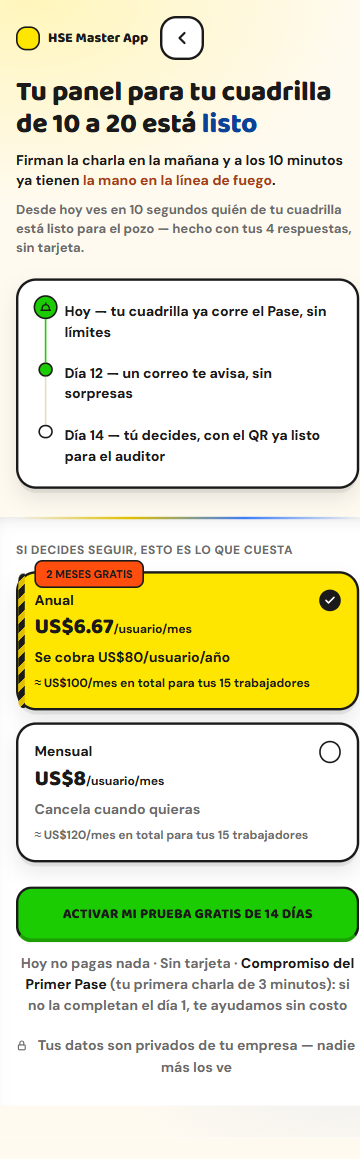
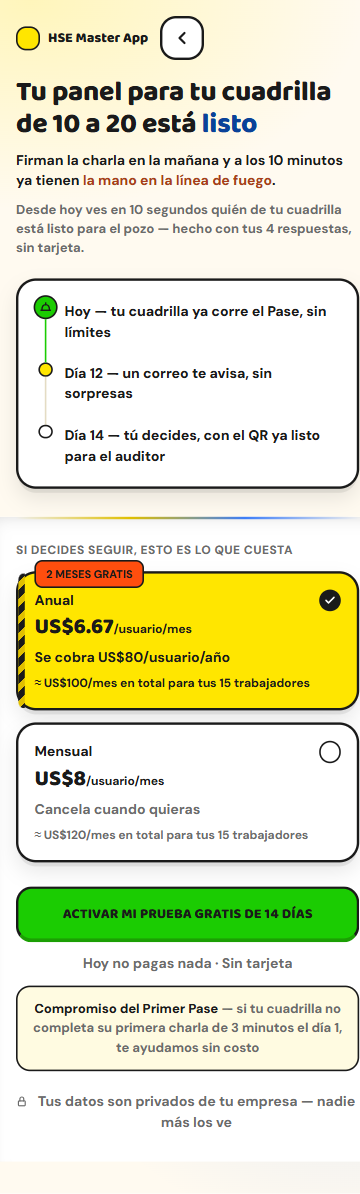
Sesion 4: corrige los defectos de la ronda 9 en onboarding y paywall
Onboarding: se zanja la oscilacion centrar/anclar de las rondas 7-9 -
todas las preguntas (pasos 1/2/4) anclan arriba por igual; el centrado
queda solo para reconocimiento y loading, que son pantallas de otro
tipo. Se agrega una bandera de transicion para que un doble-tap en un
chip no dispare 2 avances a la vez. Se completa la transicion de
"Atras" con la opacity que le faltaba. Se quita un selector CSS muerto.

Paywall: el rojo de texto de la ronda 7 pasa a ser un token declarado
(--rojo-texto) y documentado en FICHA-ARTE en vez de un hex suelto. El
script queda envuelto en try/finally para que un error en cualquier
parte no deje la pantalla en blanco. El nodo "Dia 12" gana su propio
estado amarillo, distinto del verde de "Hoy" (ya ocurrido). "Compromiso
del Primer Pase" pasa a su propia tarjeta con peso visual propio. El
check del plan elegido anima su aparicion en vez de cortar seco.

diff --git a/paywall.html b/paywall.html
@@ -19,7 +19,7 @@
     --amarillo: #ffe600; --amarillo-sombra: #e0bf00;
     --verde: #1bcc02; --verde-sombra: #1b9f03;
     --azul: #3e7ef7; --azul-sombra: #0a4299;
-    --rojo: #ff4e0e; --rojo-sombra: #c75126;
+    --rojo: #ff4e0e; --rojo-sombra: #c75126; --rojo-texto: #a83d1a;
     --neutro-track: #e4dcc4;
     --font-display: 'Baloo 2', sans-serif; --font-body: 'DM Sans', sans-serif;
   }
@@ -49,7 +49,7 @@
   .pw-headline em { font-style: normal; color: var(--azul-sombra); }
   .pw-sub { margin-top: 10px; font-size: 13px; color: var(--ink-2); font-weight: 700; }
   .pw-emocion { margin-top: 10px; font-size: 14px; font-weight: 700; color: var(--ink); line-height: 1.4; }
-  .pw-emocion b { color: #a83d1a; }
+  .pw-emocion b { color: var(--rojo-texto); }
 
   .pw-bloque { background: var(--surface); border: 3px solid var(--ink); border-radius: 20px; padding: 20px; margin-top: 20px;
                box-shadow: 0 6px 0 -2px rgb(26 26 26 / 0.08), 0 10px 20px rgb(26 26 26 / 0.1); }
@@ -62,6 +62,7 @@
   .pw-linea .nodo.casco { width: 24px; height: 24px; margin: -5px -5px 0; }
   .pw-linea .nodo.casco svg { width: 13px; height: 13px; }
   .pw-linea .nodo.outline { background: var(--surface); }
+  .pw-linea .nodo.proximo { background: var(--amarillo); }
   .pw-linea .conector { width: 2px; flex: 1; background: var(--verde); min-height: 36px; }
   .pw-linea .conector.neutro { background: var(--neutro-track); }
   .pw-linea .contenido { padding-bottom: 20px; }
@@ -101,6 +102,7 @@
                      border: 2px solid var(--ink); background: var(--surface); display: flex; align-items: center; justify-content: center; }
   .pw-plan.elegido .marca { background: var(--ink); }
   .pw-plan .marca svg { opacity: 0; }
+  .js-motion .pw-plan .marca svg { transition: opacity 150ms ease; }
   .pw-plan.elegido .marca svg { opacity: 1; }
 
   .pw-cta-wrap { margin-top: 24px; }
@@ -110,7 +112,9 @@
   .js-motion .pw-boton { transition: transform 120ms ease, border-bottom-width 120ms ease; }
   .pw-boton:active { border-bottom-width: 3px; transform: translateY(3px); }
   .pw-reversibilidad { margin-top: 10px; text-align: center; font-size: 14px; color: var(--ink-2); font-weight: 700; }
-  .pw-reversibilidad b { color: var(--ink); }
+  .pw-garantia { margin-top: 12px; padding: 12px 14px; border: 2px solid var(--ink); border-radius: 14px;
+                 background: color-mix(in oklab, var(--amarillo) 18%, var(--surface)); font-size: 13px; font-weight: 700; color: var(--ink-2); text-align: center; }
+  .pw-garantia b { color: var(--ink); }
 
   .pw-trust { margin-top: 20px; text-align: center; font-size: 14px; color: var(--ink-2); font-weight: 700;
               display: flex; align-items: flex-start; justify-content: center; gap: 6px; }
@@ -139,7 +143,7 @@
       </div>
     </div>
     <div class="pw-linea">
-      <div class="riel"><span class="nodo"></span><span class="conector neutro"></span></div>
+      <div class="riel"><span class="nodo proximo"></span><span class="conector neutro"></span></div>
       <div class="contenido">
         <p class="titulo">Día 12 — un correo te avisa, sin sorpresas</p>
       </div>
@@ -178,7 +182,8 @@
 
   <div class="pw-cta-wrap pw-reveal">
     <button type="button" class="pw-boton" id="pwActivar">Activar mi prueba gratis de 14 días</button>
-    <p class="pw-reversibilidad">Hoy no pagas nada · Sin tarjeta · <b>Compromiso del Primer Pase</b> (tu primera charla de 3 minutos): si no la completan el día 1, te ayudamos sin costo</p>
+    <p class="pw-reversibilidad">Hoy no pagas nada · Sin tarjeta</p>
+    <p class="pw-garantia"><b>Compromiso del Primer Pase</b> — si tu cuadrilla no completa su primera charla de 3 minutos el día 1, te ayudamos sin costo</p>
   </div>
 
   <p class="pw-trust pw-reveal">
@@ -189,60 +194,64 @@
 </main>
 
 <script>
-  try {
-    const onb = JSON.parse(sessionStorage.getItem('hseOnboarding') || '{}');
-    const ETIQUETAS_CUADRILLA = {
-      'Menos de 10 trabajadores': 'menos de 10 trabajadores',
-      'Entre 10 y 20 trabajadores': 'tu cuadrilla de 10 a 20',
-      'Más de 20 trabajadores': 'tu cuadrilla de más de 20'
-    };
-    document.getElementById('pwCuadrilla').textContent = ETIQUETAS_CUADRILLA[onb.cuadrilla] || 'tu cuadrilla';
-
-    const PERSONAS_ESTIMADAS = {
-      'Menos de 10 trabajadores': 8,
-      'Entre 10 y 20 trabajadores': 15,
-      'Más de 20 trabajadores': 25
-    };
-    const n = PERSONAS_ESTIMADAS[onb.cuadrilla];
-    if (n) {
-      document.getElementById('pwAnualTotal').textContent = `≈ US$${Math.round(6.67 * n)}/mes en total para tus ${n} trabajadores`;
-      document.getElementById('pwMensualTotal').textContent = `≈ US$${8 * n}/mes en total para tus ${n} trabajadores`;
-    }
-  } catch (err) {
-    document.getElementById('pwCuadrilla').textContent = 'tu cuadrilla';
-  }
-
-  const planes = Array.from(document.querySelectorAll('.pw-plan'));
-  function elegirPlan(plan, enfocar) {
-    planes.forEach((p) => { p.classList.remove('elegido'); p.setAttribute('aria-checked', 'false'); p.setAttribute('tabindex', '-1'); });
-    plan.classList.add('elegido');
-    plan.setAttribute('aria-checked', 'true');
-    plan.setAttribute('tabindex', '0');
-    if (enfocar) plan.focus();
-  }
-  planes.forEach((plan, i) => {
-    plan.addEventListener('click', () => elegirPlan(plan, false));
-    plan.addEventListener('keydown', (e) => {
-      if (e.key === 'Enter' || e.key === ' ') { e.preventDefault(); elegirPlan(plan, false); return; }
-      if (!['ArrowDown', 'ArrowRight', 'ArrowUp', 'ArrowLeft'].includes(e.key)) return;
-      e.preventDefault();
-      const siguiente = (e.key === 'ArrowDown' || e.key === 'ArrowRight') ? planes[(i + 1) % planes.length] : planes[(i - 1 + planes.length) % planes.length];
-      elegirPlan(siguiente, true);
-    });
-  });
-
-  document.getElementById('pwActivar').addEventListener('click', () => {
-    const elegido = document.querySelector('.pw-plan.elegido');
-    try { sessionStorage.setItem('hsePlanElegido', elegido ? elegido.dataset.plan : 'anual'); } catch {}
-    window.location.href = 'login.html';
-  });
-
-  const reveals = document.querySelectorAll('.pw-reveal');
   const sinMovimiento = window.matchMedia('(prefers-reduced-motion: reduce)').matches;
-  reveals.forEach((el, i) => {
-    if (sinMovimiento) { el.classList.add('in'); return; }
-    setTimeout(() => el.classList.add('in'), 80 + i * 80);
-  });
+  function revelarTodo() {
+    document.querySelectorAll('.pw-reveal').forEach((el, i) => {
+      if (sinMovimiento) { el.classList.add('in'); return; }
+      setTimeout(() => el.classList.add('in'), 80 + i * 80);
+    });
+  }
+  try {
+    try {
+      const onb = JSON.parse(sessionStorage.getItem('hseOnboarding') || '{}');
+      const ETIQUETAS_CUADRILLA = {
+        'Menos de 10 trabajadores': 'menos de 10 trabajadores',
+        'Entre 10 y 20 trabajadores': 'tu cuadrilla de 10 a 20',
+        'Más de 20 trabajadores': 'tu cuadrilla de más de 20'
+      };
+      document.getElementById('pwCuadrilla').textContent = ETIQUETAS_CUADRILLA[onb.cuadrilla] || 'tu cuadrilla';
+
+      const PERSONAS_ESTIMADAS = {
+        'Menos de 10 trabajadores': 8,
+        'Entre 10 y 20 trabajadores': 15,
+        'Más de 20 trabajadores': 25
+      };
+      const n = PERSONAS_ESTIMADAS[onb.cuadrilla];
+      if (n) {
+        document.getElementById('pwAnualTotal').textContent = `≈ US$${Math.round(6.67 * n)}/mes en total para tus ${n} trabajadores`;
+        document.getElementById('pwMensualTotal').textContent = `≈ US$${8 * n}/mes en total para tus ${n} trabajadores`;
+      }
+    } catch (err) {
+      document.getElementById('pwCuadrilla').textContent = 'tu cuadrilla';
+    }
+
+    const planes = Array.from(document.querySelectorAll('.pw-plan'));
+    function elegirPlan(plan, enfocar) {
+      planes.forEach((p) => { p.classList.remove('elegido'); p.setAttribute('aria-checked', 'false'); p.setAttribute('tabindex', '-1'); });
+      plan.classList.add('elegido');
+      plan.setAttribute('aria-checked', 'true');
+      plan.setAttribute('tabindex', '0');
+      if (enfocar) plan.focus();
+    }
+    planes.forEach((plan, i) => {
+      plan.addEventListener('click', () => elegirPlan(plan, false));
+      plan.addEventListener('keydown', (e) => {
+        if (e.key === 'Enter' || e.key === ' ') { e.preventDefault(); elegirPlan(plan, false); return; }
+        if (!['ArrowDown', 'ArrowRight', 'ArrowUp', 'ArrowLeft'].includes(e.key)) return;
+        e.preventDefault();
+        const siguiente = (e.key === 'ArrowDown' || e.key === 'ArrowRight') ? planes[(i + 1) % planes.length] : planes[(i - 1 + planes.length) % planes.length];
+        elegirPlan(siguiente, true);
+      });
+    });
+
+    document.getElementById('pwActivar').addEventListener('click', () => {
+      const elegido = document.querySelector('.pw-plan.elegido');
+      try { sessionStorage.setItem('hsePlanElegido', elegido ? elegido.dataset.plan : 'anual'); } catch {}
+      window.location.href = 'login.html';
+    });
+  } finally {
+    revelarTodo();
+  }
 </script>
 
 </body>

diff --git a/onboarding.html b/onboarding.html
@@ -57,11 +57,11 @@
     position: absolute; inset: 0; padding: 32px 16px 24px; display: flex; flex-direction: column;
     justify-content: flex-start; opacity: 0; transform: translateX(40px); pointer-events: none; visibility: hidden;
   }
-  .onb-paso[data-paso="1"], .onb-paso[data-paso="3"], .onb-paso[data-paso="5"] { justify-content: center; }
+  .onb-paso[data-paso="3"], .onb-paso[data-paso="5"] { justify-content: center; }
   .js-motion .onb-paso { transition: opacity 300ms ease, transform 300ms ease; }
   .onb-paso.activo { opacity: 1; transform: translateX(0); pointer-events: auto; visibility: visible; }
   .onb-paso.saliendo-izq { opacity: 0; transform: translateX(-24px); }
-  .onb-paso.entrando-der { transform: translateX(40px); }
+  .onb-paso.entrando-der { opacity: 0; transform: translateX(40px); }
   .onb-paso.entrando-izq { transform: translateX(-40px); }
 
   .onb-encabezado { border-radius: 20px; border: 3px solid var(--ink); padding: 20px; margin-bottom: 24px; }
@@ -334,10 +334,14 @@
     document.querySelector('.onb-header').classList.toggle('oculto', paso === 5);
   }
 
+  let transicionando = false;
   function irAPaso(num, direccion) {
+    if (transicionando) return;
     const actualEl = pasos.find(p => Number(p.dataset.paso) === pasoActual);
     const siguienteEl = pasos.find(p => Number(p.dataset.paso) === num);
-    if (!siguienteEl) return;
+    if (!siguienteEl || siguienteEl === actualEl) return;
+    transicionando = true;
+    setTimeout(() => { transicionando = false; }, sinMovimiento ? 0 : 320);
     if (sinMovimiento) {
       actualEl.classList.remove('activo');
       siguienteEl.classList.add('activo');
@@ -425,7 +429,7 @@
   // revela el input libre. El botón de confirmar nunca nace deshabilitado — valida al tocarlo
   // y muestra un aviso en vez de bloquear la acción.
   document.getElementById('onbOtraCosa').addEventListener('click', () => {
-    document.querySelectorAll('.onb-chip[data-grupo-padre="reto"], [data-grupo="reto"] .onb-chip').forEach((c) => {
+    document.querySelectorAll('[data-grupo="reto"] .onb-chip').forEach((c) => {
       c.classList.remove('seleccionado'); c.setAttribute('aria-checked', 'false');
     });
     document.getElementById('onbRetoInputWrap').classList.add('show');

diff --git a/ESTADO.md b/ESTADO.md
@@ -1,7 +1,7 @@
 # ESTADO — HSE Master App
 Última actualización: 2026-10-17 | Sesión actual: 4
 
-⏸ CHECKPOINT — Sesión 4 (onboarding, paywall), ronda 8 de ambas YA ENTREGADA y YA CORREGIDA (sin relanzar ronda 9 todavía). Onboarding ronda 8: usabilidad 31/40, craft 15/20 (craft bajó 1 punto, sigue cerca del umbral). Paywall ronda 8: usabilidad 34/40 (a 2 puntos del umbral), craft 18/20 (PASA), copy 18/20 (PASA) — los 5 defectos de la ronda 7 quedaron verificados como corregidos. Fixes de onboarding ronda 8 (la ronda 7 pidió anclar arriba los pasos cortos; la ronda 8 dijo lo contrario para los pasos 1 y 3 — dos revisores independientes con criterio distinto sobre el mismo tipo de vacío, no una contradicción mía): paso 1 (3 chips) y paso 3 (reconocimiento) vuelven a centrarse verticalmente como el paso 5, porque con poco contenido el centrado se lee más intencional que el aire muerto solo abajo; los pasos 2 y 4 (4 chips) se quedan anclados arriba, donde sí hay contenido suficiente; `.onb-atras` ahora tiene la misma caja con borde que `.onb-salir` (antes casi no se veía); el input de "otra cosa" gana `aria-label`; las 3 preguntas bajan de `h1` a `h2` (ya no compiten 3 h1 ocultos en el DOM). Fixes de paywall ronda 8: cada precio ahora muestra el costo total estimado para el tamaño real de cuadrilla (ej. "≈ US$100/mes para tus 15 trabajadores"), usando la misma respuesta del onboarding; el botón "volver" ya no reinicia las 4 preguntas — si hay respuestas guardadas en la sesión, onboarding.html salta directo al paso 4 con el horario ya marcado; el logo gana `min-height:44px` de área táctil; el subtítulo baja a 13px para diferenciarse del cuerpo de 14px; el titular de 28px queda documentado en FICHA-ARTE como la misma excepción de "marketing display" que el h1 de landing. Próximo paso: commitear y relanzar la ronda 9 de ambas.
+⏸ CHECKPOINT — Sesión 4 (onboarding, paywall), ronda 9 de ambas YA ENTREGADA y YA CORREGIDA (sin relanzar ronda 10 todavía). Onboarding ronda 9: usabilidad 28/40, craft 14/20 (ambos bajaron). La ronda 9 explicó POR QUÉ venía oscilando desde la 7: marcó que paso 1 centrado + pasos 2/4 anclados arriba (la decisión de la ronda 8) rompe la heurística de consistencia — "misma composición, posición distinta salta entre preguntas". Se zanja así (no se vuelve a tocar sin evidencia nueva): TODAS las preguntas (1/2/4) anclan arriba por igual; centrado queda SOLO para reconocimiento (3) y loading (5), que son pantallas de otro tipo (interstitial, sin pregunta). También se corrigió: doble-tap en un chip ya no dispara 2 transiciones a la vez (bandera `transicionando`); `.onb-paso.entrando-der` ya tenía `opacity` faltante en la transición de "Atrás"; se quitó un selector CSS muerto de un refactor anterior. Paywall ronda 9: usabilidad 30/40, craft 14/20, copy 17/20 (los 3 bajaron tras pasar el umbral en craft/copy la ronda 8 — ver fixes). Fixes de paywall ronda 9: el rojo de texto #A83D1A (ronda 7) estaba huérfano fuera de los tokens → ahora es `--rojo-texto` en `:root`, documentado en FICHA-ARTE como un 3er tono del rojo solo para texto; el script completo quedó envuelto en try/finally para que un error en cualquier parte no deje la pantalla en blanco (el `revelarTodo()` corre siempre); el nodo "Día 12" compartía el mismo verde sólido que "Hoy" (ya ocurrió) → gana su propio estado amarillo intermedio; "Compromiso del Primer Pase" salió de la oración larga de reversibilidad y ahora es su propia tarjeta con borde y tinte, con peso visual propio; el check del plan elegido ahora aparece con transición de opacidad en vez de cortar seco. Próximo paso: commitear y relanzar la ronda 10 de ambas.
 veredicto:landing — 24 rondas de revisión independiente corregidas con mejora real y medible (usabilidad 27→30, craft 12-14 oscilando). Sigue NO LISTA. Las correcciones restantes que el revisor pide (bajar de 4 a 2 acentos de color en toda la pantalla, variar el gesto de botón, rotar el amarillo más allá de lo que preserva "gold") chocan con decisiones ya aprobadas por el usuario (FICHA-ARTE.md, cosa juzgada) — documentadas abajo como razonadas, no pendientes sueltas. El único camino para subir más el puntaje de craft/identidad es que el USUARIO decida si quiere tocar esas decisiones aprobadas, no que el agente seguro siga iterando solo. defecto "cero estados de error en el funnel" sigue DELIBERADAMENTE sin resolver: no hay backend/checkout real todavía (Sesión 6, cualquier error sería fabricado). El footer legal ya NO dice "(pendiente)" con jerga interna (corregido en ronda 19 → "(próximamente)", lenguaje de cliente) pero las 3 páginas legales siguen sin redactarse de verdad — eso se resuelve en la sesión aparte de este sistema (47-LEGAL-FISCAL-Y-PRIVACIDAD.md). La promesa de "reembolso de 7 días" se QUITÓ de la landing (ronda 23) hasta que exista FICHA-MERCADO.md con el plazo real verificado contra Hotmart — ninguno bloquea esta pantalla puntual.
 
 ## Qué es esta app (3 líneas máximo)
@@ -104,8 +104,8 @@ Plataforma móvil B2B de microaprendizaje gamificado (estilo Duolingo) para capa
   4. [Carrusel] El recálculo de flechas/puntos en cada evento de scroll no usa `requestAnimationFrame` — podría sentirse tosco en celulares de gama media bajo prueba real (nunca verificado en un dispositivo físico, solo en navegador de escritorio emulando 375px).
   5. [Método] El screenshot de evidencia es de página completa muy reescalada (360×8711) y no permite verificar encaje óptico fino — si se retoma el pulido, conviene agregar recortes a resolución nativa de las secciones clave.
   Las demás tensiones de fondo (paleta multicolor, gesto de botón, falta de testimonios, mailto sin backend, footer legal) siguen siendo decisiones razonadas y documentadas por separado abajo, no parte de esta lista.
-- veredicto:onboarding — 8 rondas de revisión independiente (30→31→32→28→28→33→29→31/40 usabilidad; craft 10→12→12→10→13→14→16→15/20). Craft sigue cerca del umbral; usabilidad sube (ver CHECKPOINT). docs/revisiones/onboarding-veredicto.md en disco es el de la ronda 8. No se declara lista hasta leer el veredicto de la ronda 9.
-- veredicto:paywall — 8 rondas de revisión independiente (31→35→35→32→31→31→29→34/40 usabilidad; craft 14→12→15→14→13→14→15→18/20; copy 17→16→17→16→17→17→16→18/20). Craft y copy YA PASAN el umbral; falta solo usabilidad, a 2 puntos (ver CHECKPOINT). docs/revisiones/paywall-veredicto.md en disco es el de la ronda 8. No se declara lista hasta leer el veredicto de la ronda 9.
+- veredicto:onboarding — 9 rondas de revisión independiente (30→31→32→28→28→33→29→31→28/40 usabilidad; craft 10→12→12→10→13→14→16→15→14/20). La oscilación de las rondas 7-9 (anclar vs centrar) se zanjó con una regla fija (ver CHECKPOINT): preguntas siempre ancladas arriba, interstitials siempre centrados. docs/revisiones/onboarding-veredicto.md en disco es el de la ronda 9. No se declara lista hasta leer el veredicto de la ronda 10.
+- veredicto:paywall — 9 rondas de revisión independiente (31→35→35→32→31→31→29→34→30/40 usabilidad; craft 14→12→15→14→13→14→15→18→14/20; copy 17→16→17→16→17→17→16→18→17/20). Craft y copy retrocedieron tras un hex huérfano y un script sin red de seguridad (ver CHECKPOINT, ambos corregidos). docs/revisiones/paywall-veredicto.md en disco es el de la ronda 9. No se declara lista hasta leer el veredicto de la ronda 10.
 - cinco-opciones-reto-onboarding — RESUELTO en la ronda 4: la pregunta "¿cuál es tu reto más urgente?" tenía 5 chips de igual peso (4 dolores reales + "Otra cosa"), sobre el límite genérico de 4 del gate de carga cognitiva. En vez de solo documentar la tensión (como se hizo en rondas 1-3), se bajó "Otra cosa" a un enlace de texto secundario debajo de los 4 chips reales — conserva el escape hatch obligatorio de `50-DISENO-ONBOARDING-PAYWALL.md` → A2 ("el último ítem SIEMPRE es 'Otra cosa'") sin que compita en peso visual con los 4 dolores reales de FICHA-AVATAR.md. Los 4 chips siguen intactos (ninguno es relleno).
 - identidad-visual-duolingo (onboarding) — la ronda 1 marcó que el onboarding (tipografía chunky + bordes gruesos + botón presionable + amarillo/multicolor) se lee como el mismo lenguaje de Duolingo. Es la MISMA tensión ya documentada y cerrada para la landing (`gesto-boton-duolingo`, `forma-boton-duolingo`, `multicolor-60-30-10` abajo) — el onboarding reutiliza a propósito el mismo sistema visual de FICHA-ARTE.md (consistencia entre pantallas de la misma app), así que no es un hallazgo nuevo ni se redecide aquí: aplica la misma decisión razonada ya tomada para la landing.
 - metodologia-captura-scroll — desde la ronda 50: el screenshot oficial (`landing-375.png`) es de PÁGINA COMPLETA, así que nunca muestra elementos activados por scroll real (la barra fija inferior, el botón "volver arriba", el estado "past-oferta" si existiera). Cuando un veredicto dependa de verificar uno de esos elementos, no alcanza con leer el código: hay que probarlo en el navegador con scroll real (Playwright `browser_evaluate` moviendo `scrollTop` directo, NO `window.scrollTo` con `behavior` suave — en Chromium headless el scroll suave a veces no se mueve de verdad) antes de concluir que algo está roto.

diff --git a/docs/revisiones/paywall-veredicto.md b/docs/revisiones/paywall-veredicto.md
@@ -1,17 +1,15 @@
 # VEREDICTO revisor-visual — paywall (activación de prueba gratis)
 Fecha: 2026-10-17 00:00
 Screenshot: docs/revisiones/paywall-375.png
-Usabilidad: 34/40
-Craft: 18/20
-Copy (si vende): 18/20
+Usabilidad: 30/40
+Craft: 14/20
+Copy (si vende): 17/20
 Fidelidad (si hubo referencia): N-A
 Veredicto: NO LISTA
 
 Top defectos:
-1. [paywall.html líneas 161-162 y 169-170, tarjetas de plan] el precio solo se muestra "/usuario/mes" (US$6.67 y US$8) sin el costo total para la cuadrilla que el propio onboarding ya reportó (10 a 20 personas, usado en la línea 127 del headline) — el comprador B2B (Carlos, FICHA-AVATAR.md, "poder adquisitivo... lo compara contra multas") tiene que hacer la cuenta él mismo antes de decidir → fix: agregar una línea dinámica bajo cada precio ("≈ US$67-133/mes para tu cuadrilla de 10 a 20"), leyendo el mismo dato de `sessionStorage` que ya alimenta `pwCuadrilla` (línea 194).
-2. [paywall.html línea 121] `<a href="onboarding.html" class="pw-cerrar" aria-label="Volver al recorrido de bienvenida">` apunta al archivo sin parámetro ni ancla de paso — no hay evidencia en este código de que el onboarding reanude en el último paso contestado; si reinicia desde el principio, el botón etiquetado "volver" en realidad fuerza a recontestar las 4 preguntas ya dadas (viola "reconocer en vez de recordar" y "control y libertad") → fix: pasar un parámetro de reanudación (`onboarding.html?resume=1`) y verificar que esa página lo honre, o cambiar el aria-label a lo que realmente hace si reinicia.
-3. [paywall.html líneas 38-40 y 120] `.pw-logo` (el link con el logo "HSE Master App") no tiene padding ni min-height — su área táctil real es ~24px (la altura del `.dot`), por debajo del mínimo de 44px que la Regla 5 de UX exige para todo botón/link tocable en 375px → fix: agregar `padding: 10px 4px` o `min-height: 44px; display: inline-flex; align-items: center;` al `.pw-logo`.
-4. [paywall.html líneas 50-51, 69, 93 (small), 95, 105, 109 — jerarquía tipográfica] fuera del headline (28px) y el precio (22px), todo el cuerpo —`pw-sub`, `pw-emocion`, `.titulo` del timeline, `.nota` del plan, el texto del botón y `pw-reversibilidad`— comparte 14px y se diferencia solo por peso/color; al entrecerrar los ojos el nivel 2-3 de la jerarquía (DESIGN-CORE: 4 niveles nítidos) se ve plano → fix: bajar `pw-sub` (el texto menos prioritario, la descripción general) a 13px o subir `.nota`/`pw-planes-tit` a 15px para abrir un tercer escalón real.
-5. [paywall.html línea 48 vs FICHA-ARTE.md línea 32] `.pw-headline { font-size: 28px; }` supera el tope ~23-26px que la ficha fija para la escala "display" de la app, y a diferencia del h1 de landing (34/46px, excepción documentada en la ficha) o la pregunta de onboarding (28-32px, excepción documentada citando `50-DISENO-ONBOARDING-PAYWALL.md`), el headline del paywall no tiene una excepción registrada que lo justifique → fix: documentar la excepción en FICHA-ARTE.md (si el paywall se trata como "marketing display") o bajarlo a 26px para no crear una quinta variante no registrada.
-
-Nota de seguimiento: los 5 defectos de la ronda 7 (contraste del dolor en rojo, exceso de texto antes del precio, navegación por flechas del radiogroup, "Compromiso del Primer Pase" sin aclarar, competencia de 3 colores) están corregidos y verificados en este código — no se repiten en esta ronda.
+1. [paywall.html línea 52] `.pw-emocion b { color: #a83d1a; }` es un hex suelto que no existe en ningún token de `:root` (líneas 17-25) ni en la paleta fija de FICHA-ARTE.md (línea 26: rojo #FF4E0E / rojo-sombra #C75126, "cada uno con su propio uso fijo, nunca intercambiables") — en pantalla se ven DOS tonos de rojo/naranja distintos a simple vista (el de "la mano en la línea de fuego" y el del badge "2 MESES GRATIS"), rompiendo la disciplina de acentos fijos. El valor parece elegido a propósito para pasar contraste AA sobre blanco (≈6.3:1, mientras `--rojo` solo da ≈3.3:1) → fix: declararlo como token explícito (p. ej. `--rojo-texto: #a83d1a`) y documentarlo en FICHA-ARTE.md como la variante AA-safe para texto de riesgo sobre fondo claro, en vez de dejarlo como hex huérfano sin registro en la ficha de marca.
+2. [paywall.html líneas 44 y 240-245] Todo el contenido principal nace con `opacity: 0` (`.pw-reveal`) y solo se revela si el script llega sano hasta el `forEach` final de la línea 242; no hay `try/finally` global ni fallback en CSS puro (`@keyframes`/`<noscript>`). Si cualquier línea anterior del script (191-238) lanza una excepción no prevista, TODA la pantalla —titular, timeline, planes, CTA, texto de confianza— queda en blanco sin ningún mensaje de error, violando la regla "la app nunca muestra pantalla blanca" → fix: envolver el script completo en un único `try { ... } finally { reveals.forEach(el => el.classList.add('in')) }`, o quitar el `opacity:0` por defecto y animar solo con `@keyframes` CSS (dejando el stagger de JS como mejora opcional, no como requisito para ver el contenido).
+3. [paywall.html líneas 136 y 142, bloque timeline] El nodo de "Hoy" (ya ocurriendo) y el nodo de "Día 12" (evento futuro, a 12 días de distancia) comparten el mismo verde sólido por defecto (`.nodo { background: var(--verde) }`), mientras que solo "Día 14" usa `.outline` para distinguirse — un usuario que mira la línea de tiempo puede leer "Día 12" como un hito ya cumplido en lugar de uno que todavía falta → fix: dar a "Día 12" un estado visual intermedio (p. ej. `.outline` con relleno parcial o `var(--neutro-track)`) para separar claramente "ya pasó" de "va a pasar" de "tú decides".
+4. [paywall.html línea 181] La línea de reversibilidad mete tres ideas de peso muy distinto en una sola oración ("Hoy no pagas nada · Sin tarjeta · **Compromiso del Primer Pase** (tu primera charla de 3 minutos): si no la completan el día 1, te ayudamos sin costo") — la garantía nombrada, que es la pieza que más pesa contra la objeción "es otro gasto" (FICHA-AVATAR.md, objeción 5), queda con el mismo tamaño/peso que los dos recordatorios cortos → fix: separar "Compromiso del Primer Pase" en su propia línea o chip con jerarquía propia, debajo de las dos frases cortas.
+5. [paywall.html líneas 83 y 103-104] La tarjeta de plan transiciona su fondo y borde en 150ms al elegirla (línea 83), pero el check de la marca seleccionada (`.pw-plan .marca svg { opacity: 0 }` / `.elegido .marca svg { opacity: 1 }`, líneas 103-104) no tiene ninguna `transition` — aparece/desaparece de golpe mientras el resto de la tarjeta se anima suave, un detalle de pulido que un ojo entrenado nota al cambiar de plan → fix: agregar `transition: opacity 150ms ease` a `.pw-plan .marca svg`.

diff --git a/docs/revisiones/onboarding-veredicto.md b/docs/revisiones/onboarding-veredicto.md
@@ -1,14 +1,14 @@
 # VEREDICTO revisor-visual — onboarding
 Fecha: 2026-10-17 00:00
 Screenshot: docs/revisiones/onboarding-375.png
-Usabilidad: 31/40
-Craft: 15/20
+Usabilidad: 28/40
+Craft: 14/20
 Copy (si vende): N-A
 Fidelidad (si hubo referencia): N-A
 Veredicto: NO LISTA
 Top defectos:
-1. [Pasos 1 y 3 — pantalla completa] El fix de la ronda anterior cambió `.onb-paso` a `justify-content: flex-start` (onboarding.html línea 58) y dejó `justify-content: center` solo para el paso 5 (línea 61). Eso resolvió el aire repartido arriba/abajo pero movió el problema: el paso 1 (3 chips, líneas 202-219) y el paso 3 de reconocimiento (ícono+texto+botón, líneas 251-258) terminan su contenido a mitad de pantalla y dejan ~40-50% de blanco vacío abajo — visible de inmediato en onboarding-375.png y onboarding-375-b.png sin buscarlo. Sigue violando "cero vacío muerto" (32-DEL-MVP-AL-PRODUCTO.md). Fix: centrar verticalmente los pasos con bloques cortos (1 y 3) igual que el paso 5, o anclar arriba y sumar un elemento de apoyo que ocupe el tercio inferior.
-2. [Paso 3 vs paso 5 — mismo tipo de pantalla, trato distinto] Paso 5 (loading) tiene su propia regla de centrado (`.onb-paso[data-paso="5"]`, línea 61); paso 3 (reconocimiento) es estructuralmente la misma familia de pantalla "interstitial sin pregunta" pero no tiene esa regla y hereda `flex-start` — dos pantallas del mismo tipo se comportan distinto sin razón de diseño (ver onboarding-375-b.png vs onboarding-375-c.png). Fix: agregar `.onb-paso[data-paso="3"] { justify-content: center; }`.
-3. [Header — botones "Atrás" y "Salir", líneas 45-48] Son el mismo tipo de componente (ícono de navegación del header, 44×44px) pero con peso visual muy distinto: `.onb-atras` no tiene borde ni fondo (línea 45-46), `.onb-salir` tiene `border: 2px solid var(--ink)` + fondo `--surface` (línea 47-48). En onboarding-375-b.png el "‹" se ve como un trazo gris suelto casi invisible junto al logo, mientras la "X" está enmarcada en una caja con borde grueso — rompe consistencia (mismo componente = misma apariencia) y el usuario puede no reconocer "Atrás" como tapeable. Fix: dar a `.onb-atras` la misma caja con borde que `.onb-salir`.
-4. [Input "otra cosa", línea 244] `<input ... placeholder="Cuéntanos tu reto" ...>` no tiene `<label>` visible ni `aria-label` — el placeholder es la única identificación del campo y desaparece en cuanto el usuario empieza a escribir, dejando el campo sin nombre para quien mira hacia otro lado o usa lector de pantalla. Fix: agregar un `<label for="onbRetoInput">` visible encima del input (o al menos `aria-label="Describe tu reto"`).
-5. [Pasos 1, 2 y 4 — `<h1 class="onb-pregunta">`, líneas 205, 225, 264] Los tres existen simultáneamente en el DOM (solo ocultos por opacity/visibility, no por `display:none` en reposo), generando 3 encabezados `<h1>` en una sola página — rompe la jerarquía semántica única que espera un lector de pantalla. El paso 3 ya usa `<h2>` (línea 254) correctamente. Fix: bajar la pregunta de cada paso a `<h2>` y reservar un único `<h1>` oculto visualmente con el título general de la pantalla.
+1. [Selección de chips — pasos 1/2/4, onboarding.html:400-419] El click handler de cada chip programa `setTimeout(..., 300)` para llamar `irAPaso` sin ningún guard/flag de "transición en curso". Si el usuario toca dos chips rápido (o el mismo dos veces) dentro de esos 300ms, se disparan dos llamadas a `irAPaso(2,'adelante')`: la segunda encuentra `pasoActual` ya en 2, así que `actualEl` y `siguienteEl` apuntan al MISMO elemento, causando un glitch de animación sobre el paso ya activo. Fix: agregar una bandera `transicionando` en `irAPaso` (true al entrar, false al terminar el timeout de 320ms) e ignorar nuevos clics de chip mientras esté activa.
+2. [Pasos de pregunta, onboarding.html:56-60] `.onb-paso[data-paso="1"]` (y 3/5) usa `justify-content:center`, pero el paso 2 y el paso 4 (misma composición: encabezado + chips) quedan con el `flex-start` por defecto de la línea 57. Resultado visible: el contenido "salta" de posición verticalmente al avanzar del paso 1 (centrado, ver onboarding-375.png) al paso 2 (arriba), rompiendo la consistencia de layout entre pantallas del mismo tipo (heurística 4).
+3. [Transición "Atrás", onboarding.html:63-64 y 344-346] `.onb-paso.saliendo-izq` fija `opacity:0` además del transform, pero `.onb-paso.entrando-der` (usada como clase de salida al retroceder, línea 346) NO declara `opacity` — el paso saliente al avanzar se desvanece+desliza de forma pareja, mientras que al retroceder arranca con un salto de posición antes de empezar a desvanecerse (depende de qué regla de `transform` gane por orden de declaración). Fix: agregar `opacity: 0` a `.entrando-der` para que el "atrás" tenga el mismo fade+slide que "adelante".
+4. [Pasos 1, 3 y 5 — pantalla completa, ver onboarding-375.png y onboarding-375-b.png] El contenido centrado dentro de `.onb-paso` deja aproximadamente un 35-40% de la pantalla en blanco debajo (y arriba) del bloque pregunta+chips o reconocimiento+CTA. Es un patrón de "una sola pregunta domina" válido en el sistema, pero al verlo renderizado se percibe como pantalla a medio llenar, no como una pantalla "llena de valor". Fix: subir el tamaño del ícono/encabezado o sumar un elemento de apoyo visual (ilustración o dato de contexto) que ocupe el aire sin competir con la pregunta.
+5. [Código muerto, onboarding.html:428] El selector `'.onb-chip[data-grupo-padre="reto"]'` no coincide con ningún atributo presente en el markup (no existe `data-grupo-padre` en ningún `<button>`); es resto de un refactor anterior. Sin efecto visible hoy, pero riesgo de confusión en el próximo cambio. Fix: eliminarlo y dejar solo `'[data-grupo="reto"] .onb-chip'`.

diff --git a/FICHA-ARTE.md b/FICHA-ARTE.md
@@ -23,7 +23,8 @@
 - Acentos de apoyo (multicolor, cada uno con su propio uso fijo, nunca intercambiables):
   - Verde #1BCC02 (sombra #1B9F03): logro/acción principal — el botón CTA de avanzar, los checks de competencias vigentes.
   - Azul #3E7EF7 (sombra #0A4299): navegación/información — tab activo, palabras clave destacadas en headlines.
-  - Rojo #FF4E0E (sombra #C75126): alerta/urgencia — badge "2 meses gratis" (oferta con límite de tiempo), íconos de riesgo real (fatalidad, línea de fuego).
+  - Rojo #FF4E0E (sombra #C75126, texto #A83D1A): alerta/urgencia — badge "2 meses gratis" (oferta con límite de tiempo), íconos de riesgo real (fatalidad, línea de fuego).
+    - ⚠ AJUSTE (Sesión 4, ronda 7 de revisión de paywall): se agrega un TERCER tono, `--rojo-texto` #A83D1A, solo para texto rojo sobre el fondo crema `--bg` (ej. "la mano en la línea de fuego" en paywall.html) — la sombra #C75126 mide ~4.36:1 de contraste ahí, bajo el mínimo AA 4.5:1; #A83D1A da ~6:1. El badge y los íconos siguen usando #FF4E0E/#C75126 sin cambios — este tono es solo para texto de cuerpo en rojo.
     - ⚠ AJUSTE (Sesión 3, ronda 45-46 de revisión de landing): "Para Gerentes de HSE" (chip del hero) y "Vista previa" (chip del carrusel) se sacaron de este ejemplo — son chips INFORMATIVOS, no alertas, y llevarlos en rojo contradecía su propio significado; pasaron a un chip neutro (fondo claro, borde/texto ink). El badge "2 meses gratis" SÍ sigue en rojo (es una oferta con urgencia real de tiempo limitado).
   - ⚠ AJUSTE (Sesión 3, ronda 18 de revisión de landing): el revisor-visual independiente marcó que los 3 acentos originales (#58CC02/#1CB0F6/#FF4B4B) eran los HEX EXACTOS de marca de Duolingo, no un tono "inspirado" — un riesgo de identidad real, y además lo que la Regla de Oro 1 prohíbe explícitamente al citar una app como referencia ("se replica... sin clonar... marca"). Se rotó el matiz de los 3 (+18°/+20°/+16° aprox., verde→más puro, azul→más índigo/cobalto, rojo→más anaranjado tipo señalética de peligro industrial) preservando su función semántica y re-verificando contraste WCAG contra cada fondo/texto real donde se usan (botones, badges, chips, íconos) con la fórmula de luminancia relativa. NO es una redecisión de paleta (amarillo cálido + multicolor + blanco cálido se mantienen intactos, cosa juzgada) — es la corrección de un desvío puntual que la ficha original no había detectado.
 - Borde: 2.5-3px sólido en #1A1A1A en TODOS los bloques y botones — es la firma del estilo (look "comic/juego de mesa"), nunca hairline sutil.
